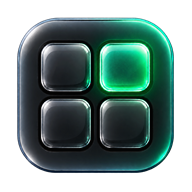
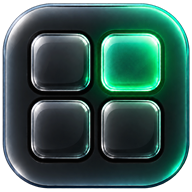
обновление

diff --git a/tests/brand-icons.html b/tests/brand-icons.html
@@ -26,7 +26,11 @@
     <img src="/icon-32.png?v=20260920-favicon-v3" width="16" height="16" alt="Favicon 2x">
     <img src="/icon-48.png?v=20260920-favicon-v3" width="16" height="16" alt="Favicon 3x">
   </div></section>
-  <section class="brown"><h2>Окно обновления · PNG без CSS-обрезки</h2><img src="/icon-192.png?v=20260920-transparent-v2" width="96" height="96" alt="PWA update icon"></section>
+  <section class="brown"><h2>Окно обновления и рабочий стол · PNG без CSS-обрезки</h2><div class="row">
+    <img src="/icon-192.png?v=20260920-desktop-v4" width="96" height="96" alt="PWA update icon">
+    <img src="/icon-512.png?v=20260920-desktop-v4" width="48" height="48" alt="Desktop icon 48px">
+    <img src="/icon-192.png?v=20260920-desktop-v4" width="32" height="32" alt="Desktop icon 32px">
+  </div></section>
   <section><h2>В приложении · тёмная тема</h2><div class="row" data-sizes></div></section>
   <section class="light"><h2>В приложении · светлая тема</h2><div class="row" data-sizes></div></section>
   <section><h2>Иконки устройства</h2><div class="row">

diff --git a/public/sw.js b/public/sw.js
@@ -1,4 +1,4 @@
-const CACHE_NAME = 'atj-cache-v8-full-size-favicon';
+const CACHE_NAME = 'atj-cache-v9-full-size-desktop';
 
 const PRECACHE_ASSETS = [
   '/',
@@ -9,8 +9,8 @@ const PRECACHE_ASSETS = [
   '/icon-32.png?v=20260920-favicon-v3',
   '/icon-48.png?v=20260920-favicon-v3',
   '/icon-180.png?v=20260920-transparent-v2',
-  '/icon-192.png?v=20260920-transparent-v2',
-  '/icon-512.png?v=20260920-transparent-v2',
+  '/icon-192.png?v=20260920-desktop-v4',
+  '/icon-512.png?v=20260920-desktop-v4',
   '/icon-maskable-192.png?v=20260920-transparent-v2',
   '/icon-maskable-512.png?v=20260920-transparent-v2'
 ];

diff --git a/src/shared/config/brand.js b/src/shared/config/brand.js
@@ -3,4 +3,4 @@ export const APP_TITLE = 'DAYRIS — Денежный календарь';
 export const PRO_PLAN_NAME = 'DAYRIS PRO';
 export const APP_SLOGAN = 'Каждый день имеет значение.';
 export const APP_ICON = '/brand-mark-192.png?v=20260920-transparent-v2';
-export const APP_SHARE_ICON = '/icon-512.png?v=20260920-transparent-v2';
+export const APP_SHARE_ICON = '/icon-512.png?v=20260920-desktop-v4';

diff --git a/assets/brand/README.md b/assets/brand/README.md
@@ -4,8 +4,10 @@
 
 `dayris-transparent.png` is the transparent cutout created with the built-in ImageGen tool. Edit prompt: remove only the background outside the rounded-square silhouette, preserve the polished artwork and interior dark surfaces, and output a genuinely transparent PNG with clean edges.
 
-Run `./scripts/build-icons.ps1` in PowerShell to reproduce the PNG exports. Desktop/PWA `any` icons preserve alpha with balanced 84% artwork framing. Favicons (16/32/48) use 100% of the cropped square so their visible mark fills the browser tab's 16px slot at 1×/2×/3× density. `brand-mark-192.png` uses the same tight framing for in-app logos. UI and share cards do not clip the actual contour. Apple touch, Android maskable, and store-listing assets are separate opaque exports; Android maskable exports inset the mark to 72% so it survives circular masks.
+Run `./scripts/build-icons.ps1` in PowerShell to reproduce the PNG exports. Desktop/PWA `any` icons (192/512) and favicons (16/32/48) use 100% of the cropped square, preserving transparency and filling their display slot. Do not add adaptive-icon padding to desktop icons: the visible mark must occupy at least 94% of both dimensions. `brand-mark-192.png` uses the same tight framing for in-app logos. UI and share cards do not clip the actual contour. Apple touch, Android maskable, and store-listing assets are separate opaque exports; Android maskable exports inset the mark to 72% so it survives circular masks.
+
+Run `./scripts/test-icons.ps1` after generating icons to check desktop/favicons for excessive padding and opaque corners.
 
 `dayris-play-store-512.png` is the 512 × 512 store-listing asset. Upload it when preparing the Google Play listing. This repository has no native Android launcher resources; any separately generated Android package must be rebuilt with the updated icons.
 
-Favicons use revision `20260920-favicon-v3`; app icons retain `20260920-transparent-v2`. Bump the affected revision and the service-worker cache when replacing artwork again. Existing Home Screen installations may need OS refresh or reinstallation after deployment.
+Favicons use revision `20260920-favicon-v3`; desktop `any` icons use `20260920-desktop-v4`; other icons retain `20260920-transparent-v2`. Bump the affected revision and the service-worker cache when replacing artwork again. Existing Home Screen installations may need OS refresh or reinstallation after deployment.
